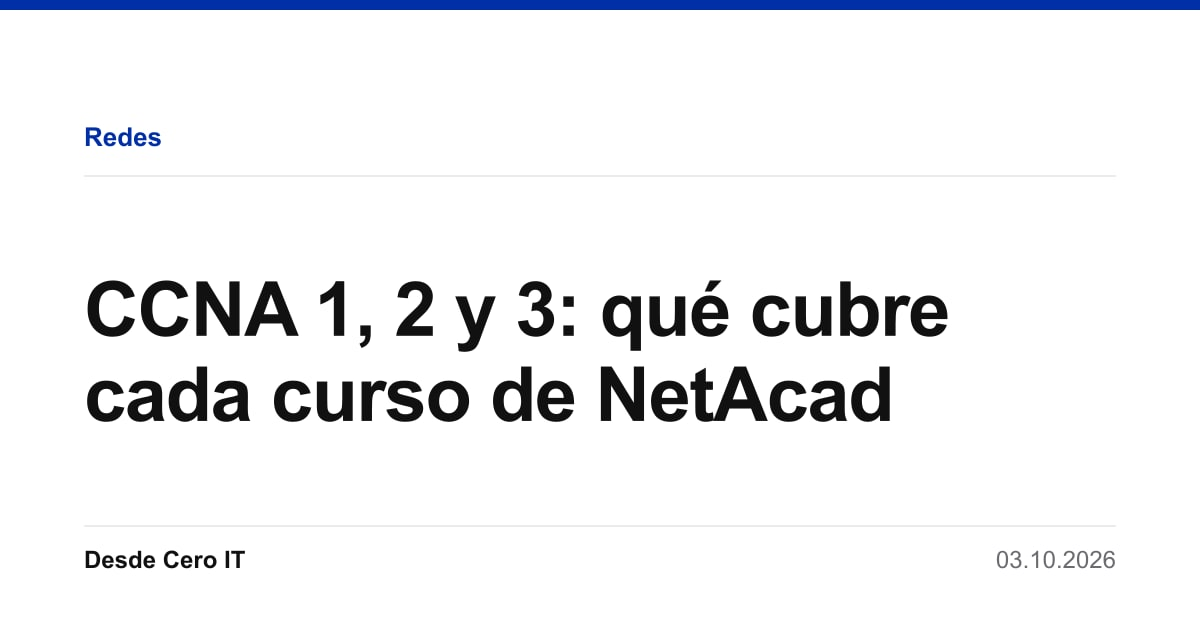
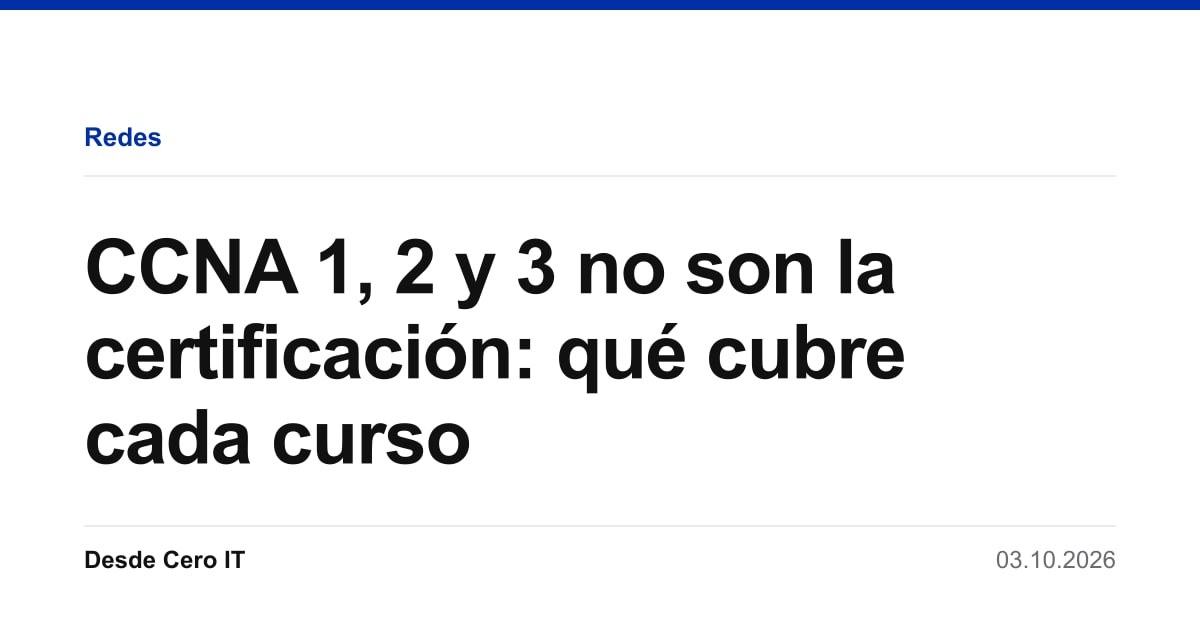
content/titulos-gsc-y-precios-a-plus

Changed region(s): [[0.0617, 0.3619, 0.8017, 0.754]]

diff --git a/src/content/articles/redes/certificaciones-cisco-mapa-completo.md b/src/content/articles/redes/certificaciones-cisco-mapa-completo.md
@@ -76,6 +76,8 @@ Todos los caminos arrancan igual, con el [CCNA 200-301](/redes/ccna-200-301-tema
 
 Si todavía no tenés el CCNA, la guía de [cómo prepararte para el CCNA](/redes/curso-ccna-como-prepararte/) compara las tres rutas de estudio según presupuesto, y la de [fundamentos de redes](/redes/fundamentos-de-redes-para-certificarte/) cubre los conceptos que el examen da por sabidos. Si pensás estudiar por Cisco Networking Academy, la guía de [cómo entrar a NetAcad y conseguir el descuento del examen](/redes/cisco-networking-academy-como-entrar/) tiene los requisitos exactos.
 
+Estas certificaciones son de redes, seguridad y automatización. Si llegaste a Cisco por otro catálogo de NetAcad y terminaste un curso de datos, mirá [qué sigue después de Fundamentos de Análisis de Datos](/entrada/despues-de-fundamentos-de-analisis-de-datos/).
+
 Para los dos caminos de seguridad vale una aclaración: la pista de Cisco y las certificaciones de CompTIA no compiten, se complementan. Es habitual combinarlas: [Security+](/seguridad/examen-comptia-security-plus/) como base general de seguridad, independiente de fabricantes, y una certificación de Cisco como conocimiento específico de infraestructura.
 
 ## Vigencia y renovación

diff --git a/src/content/articles/redes/ccna-1-2-3-cursos-netacad.md b/src/content/articles/redes/ccna-1-2-3-cursos-netacad.md
@@ -1,5 +1,5 @@
 ---
-title: "CCNA 1, 2 y 3: qué cubre cada curso de NetAcad"
+title: "CCNA 1, 2 y 3 no son la certificación: qué cubre cada curso"
 description: "CCNA 1, 2 y 3 son los cursos ITN, SRWE y ENSA de NetAcad, de unas 70 horas cada uno. Qué enseña cada uno, en qué orden van y por qué el tercero define el descuento del examen."
 keyword: "ccna 1"
 cluster: "redes"

diff --git a/src/content/articles/redes/cuanto-cuesta-el-ccna.md b/src/content/articles/redes/cuanto-cuesta-el-ccna.md
@@ -1,5 +1,5 @@
 ---
-title: "Cuánto cuesta el CCNA y cómo pagar menos"
+title: "Cuánto cuesta el CCNA: US$300 y cómo pagar menos"
 description: "El examen cuesta US$300. Qué publica Cisco sobre el descuento de NetAcad, por qué el 50% que circula es de otro programa y cuándo conviene pagar el reintento por adelantado."
 keyword: "costo examen ccna"
 cluster: "redes"
